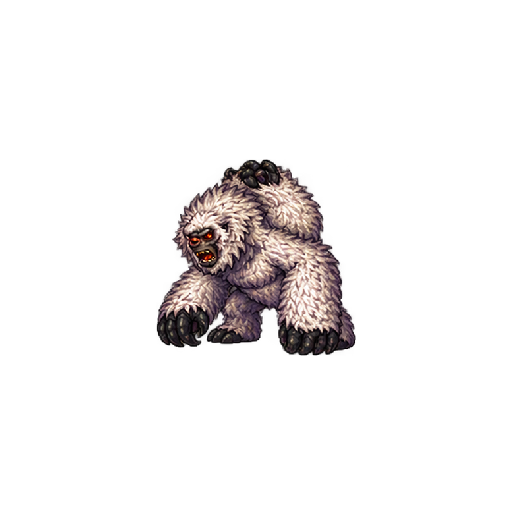
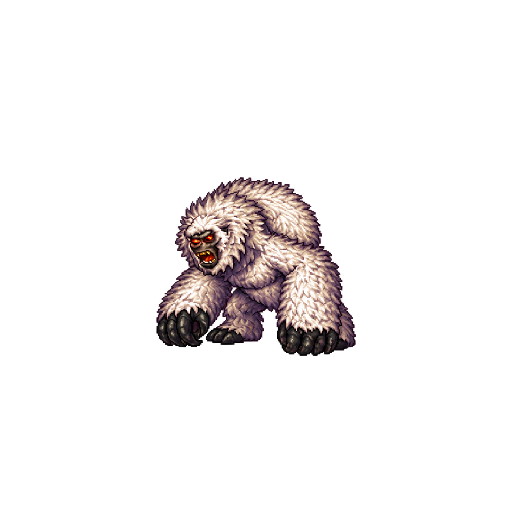
Clean monster idle sprites and halve battle XP (v0.0944)

Changed region(s): [[0.2812, 0.3125, 0.7188, 0.7188]]

diff --git a/api/_rpg/src/progression.js b/api/_rpg/src/progression.js
@@ -5,6 +5,6 @@
  function progress(totalXp=0){totalXp=Math.min(threshold(88),Math.max(0,Math.floor(Number(totalXp)||0)));let level=1;while(level<88&&totalXp>=threshold(level+1))level++;return {level,totalXp,xp:totalXp-threshold(level),nextXp:nextXp(level),maxLevel:88};}
  const baseStats=level=>{const n=clampLevel(level)-1;return [20+4*n,4+n,4+n,4+n,20+3*n,4+n];};
  const maxAp=level=>20+2*(clampLevel(level)-1);
- function victoryXp(heroLevel,monsterLevel){return Math.round((40+12*clampLevel(monsterLevel))*Math.max(.5,Math.min(1.6,1+(monsterLevel-heroLevel)*.15)));}
+ function victoryXp(heroLevel,monsterLevel){return Math.floor(Math.round((40+12*clampLevel(monsterLevel))*Math.max(.5,Math.min(1.6,1+(monsterLevel-heroLevel)*.15)))/2);}
  const api={MAX_LEVEL,clampLevel,nextXp,threshold,progress,baseStats,maxAp,victoryXp};root.RPGProgression=api;if(typeof module!=='undefined'&&module.exports)module.exports=api;
 })(globalThis);

diff --git a/rpg/src/progression.js b/rpg/src/progression.js
@@ -5,6 +5,6 @@
  function progress(totalXp=0){totalXp=Math.min(threshold(88),Math.max(0,Math.floor(Number(totalXp)||0)));let level=1;while(level<88&&totalXp>=threshold(level+1))level++;return {level,totalXp,xp:totalXp-threshold(level),nextXp:nextXp(level),maxLevel:88};}
  const baseStats=level=>{const n=clampLevel(level)-1;return [20+4*n,4+n,4+n,4+n,20+3*n,4+n];};
  const maxAp=level=>20+2*(clampLevel(level)-1);
- function victoryXp(heroLevel,monsterLevel){return Math.round((40+12*clampLevel(monsterLevel))*Math.max(.5,Math.min(1.6,1+(monsterLevel-heroLevel)*.15)));}
+ function victoryXp(heroLevel,monsterLevel){return Math.floor(Math.round((40+12*clampLevel(monsterLevel))*Math.max(.5,Math.min(1.6,1+(monsterLevel-heroLevel)*.15)))/2);}
  const api={MAX_LEVEL,clampLevel,nextXp,threshold,progress,baseStats,maxAp,victoryXp};root.RPGProgression=api;if(typeof module!=='undefined'&&module.exports)module.exports=api;
 })(globalThis);

diff --git a/app/app-version.ts b/app/app-version.ts
@@ -1,3 +1,3 @@
 // Increment APP_VERSION_NUMBER by 8 for every Chess Burger release deployment.
-export const APP_VERSION_NUMBER = 936;
+export const APP_VERSION_NUMBER = 944;
 export const APP_VERSION = `0.${String(APP_VERSION_NUMBER).padStart(4,"0")}`;

diff --git a/rpg/src/character-attacks.js b/rpg/src/character-attacks.js
@@ -230,7 +230,7 @@ window.RPG_CHARACTER_ATTACKS={
   "tile": 512,
   "visible": 200,
   "facing": "left",
-  "idleHeight": 197,
+  "idleHeight": 179,
   "frameHeights": [
    169,
    159,
